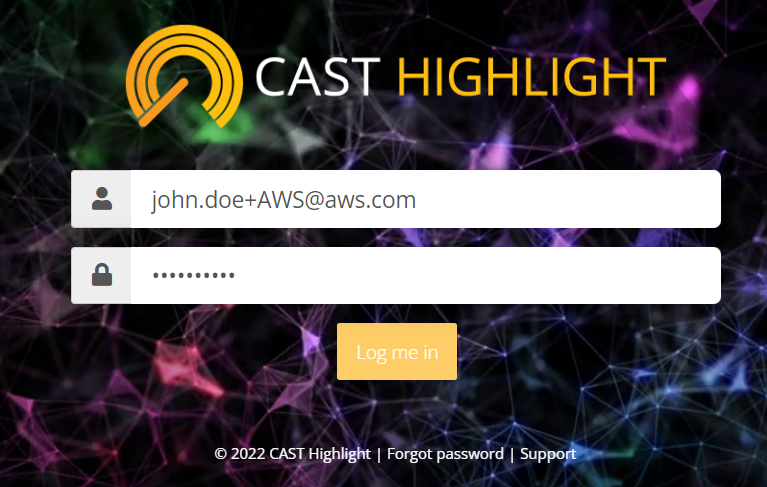
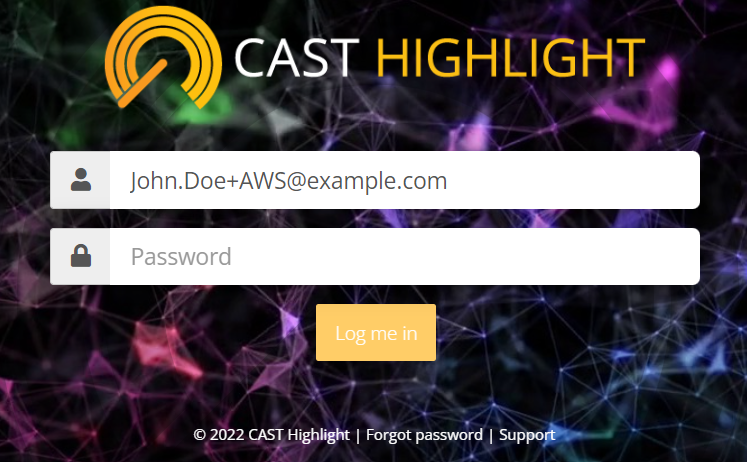
Changes requested pre-publication

diff --git a/layouts/shortcodes/accountForm.html b/layouts/shortcodes/accountForm.html
@@ -12,6 +12,6 @@
 <label for="fname">Country:</label><input type="text" id="country" placeholder="Country" required>
 <label for="fname">Company name:</label><input type="text" id="companyName" placeholder="Company" required>
 <label for="fname">email:</label>
-<input id="userEmail" type="text" class="form-control" placeholder="Type user's email address to enroll (e.g., john.doe@aws.com)" style="margin-bottom:10px; margin-top:10px" required/>
+<input id="userEmail" type="text" class="form-control" placeholder="Type user's email address to enroll (e.g., john.doe@example.com)" style="margin-bottom:10px; margin-top:10px" required/>
 <button id="inviteUserBtn" class="btn btn-primary" style="margin-top:10px; background-color: #9C6FB6">Enroll User</button>
 <script src="/js/reg.js"></script>

diff --git a/content/2_Setup/_index.md b/content/2_Setup/_index.md
@@ -15,7 +15,7 @@ Before we generate insights about our applications, we have some setup to do. He
 - Register as a CAST Highlight user
 - Get a couple apps that we want to analyze
 - Download and launch the analyzer
-- Upload the results into the SaaS platform
+- Upload the results to the CAST Highlight platform.
 
 {{% notice warning %}}
 The examples and sample code provided in this workshop are intended to be consumed as instructional content. These will help you experience how CAST Highlight can be leveraged to drive your move-to-cloud while demonstrating best practices along the way. These examples are not intended for use in production environments.

diff --git a/content/2_Setup/24_Install_Agent.md b/content/2_Setup/24_Install_Agent.md
@@ -27,7 +27,7 @@ From there, you can log in to your freshly minted account at https://demo.casthi
 
 ## Downloading the Agent
 
-From the ***Application Scans*** page you can simply click on the **Download Agent** button and save the agent on your machine.
+From the ***Application Scans*** page you can simply click on the **Download Agent** button and save the agent on your (EC2) machine.
 ![Download Agent](/images/Install-1.png)
 
 ## Installation process
